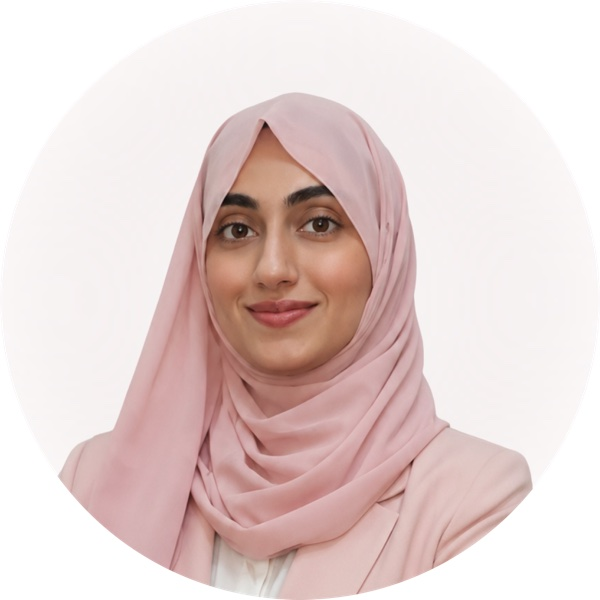
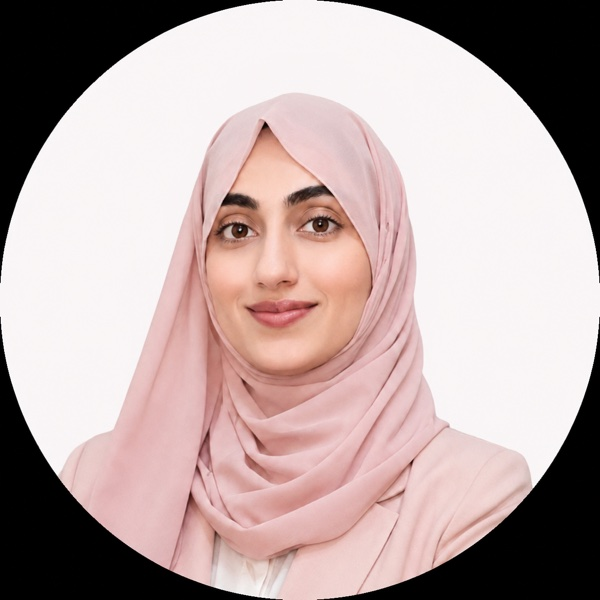
feat: reCAPTCHA v2 on contact form; smaller testimonial cards; UX fixes
- Add Google reCAPTCHA v2 (EmailJS verifies server-side); graceful if unset
- Fix textarea/select font to inherit site font
- Smaller testimonial cards, bottom-aligned author block
- Update Maryam leadership photo

diff --git a/src/components/ContactForm.jsx b/src/components/ContactForm.jsx
@@ -3,6 +3,7 @@ import emailjs from "@emailjs/browser";
 import "./ContactForm.css";
 
 const CAL_LINK = "https://cal.com/muhammad-umar-b87ycu/30min";
+const RECAPTCHA_SITE_KEY = import.meta.env.VITE_RECAPTCHA_SITE_KEY;
 
 const SERVICE_OPTIONS = [
   "Mobile App Development",
@@ -54,10 +55,48 @@ const ContactForm = () => {
   const [formError, setFormError] = useState("");
   const [honeypot, setHoneypot] = useState(""); // spam trap, real users never fill this
   const mountedAt = useRef(0); // time-trap: bots submit almost instantly
+  const recaptchaRef = useRef(null);
+  const widgetIdRef = useRef(null);
 
   useEffect(() => {
     mountedAt.current = Date.now();
   }, []);
+
+  // Load the reCAPTCHA v2 script once (only if a site key is configured).
+  useEffect(() => {
+    if (!RECAPTCHA_SITE_KEY || window.grecaptcha) return;
+    const script = document.createElement("script");
+    script.src = "https://www.google.com/recaptcha/api.js?render=explicit";
+    script.async = true;
+    script.defer = true;
+    document.head.appendChild(script);
+  }, []);
+
+  // Render the widget whenever the email form is visible.
+  useEffect(() => {
+    if (!RECAPTCHA_SITE_KEY || activeTab !== "email" || submitted) return undefined;
+    let cancelled = false;
+    const renderWidget = () => {
+      if (cancelled) return;
+      const g = window.grecaptcha;
+      if (g && g.render && recaptchaRef.current && widgetIdRef.current === null) {
+        try {
+          widgetIdRef.current = g.render(recaptchaRef.current, {
+            sitekey: RECAPTCHA_SITE_KEY,
+          });
+        } catch {
+          /* already rendered — ignore */
+        }
+      } else if (widgetIdRef.current === null) {
+        window.setTimeout(renderWidget, 300);
+      }
+    };
+    renderWidget();
+    return () => {
+      cancelled = true;
+      widgetIdRef.current = null; // let it re-render when the form returns
+    };
+  }, [activeTab, submitted]);
 
   const handleChange = (e) => {
     const { name, value } = e.target;
@@ -97,6 +136,18 @@ const ContactForm = () => {
       return;
     }
 
+    // reCAPTCHA: require a token (EmailJS verifies it server-side).
+    let captchaToken = "";
+    if (RECAPTCHA_SITE_KEY) {
+      captchaToken = window.grecaptcha
+        ? window.grecaptcha.getResponse(widgetIdRef.current ?? undefined)
+        : "";
+      if (!captchaToken) {
+        setFormError('Please complete the "I\'m not a robot" check.');
+        return;
+      }
+    }
+
     setSubmitting(true);
     setFormError("");
 
@@ -104,7 +155,7 @@ const ContactForm = () => {
       .send(
         import.meta.env.VITE_EMAILJS_SERVICE_ID,
         import.meta.env.VITE_EMAILJS_TEMPLATE_ID,
-        formData,
+        { ...formData, "g-recaptcha-response": captchaToken },
         import.meta.env.VITE_EMAILJS_PUBLIC_KEY
       )
       .then(
@@ -113,12 +164,18 @@ const ContactForm = () => {
           setSubmitted(true);
           setFormData(emptyForm);
           setSubmitting(false);
+          if (RECAPTCHA_SITE_KEY && window.grecaptcha) {
+            window.grecaptcha.reset(widgetIdRef.current ?? undefined);
+          }
         },
         () => {
           setSubmitting(false);
           setFormError(
             "Something went wrong sending your message. Please try again, or email us directly."
           );
+          if (RECAPTCHA_SITE_KEY && window.grecaptcha) {
+            window.grecaptcha.reset(widgetIdRef.current ?? undefined);
+          }
         }
       );
   };
@@ -337,6 +394,13 @@ const ContactForm = () => {
                 onChange={(e) => setHoneypot(e.target.value)}
                 aria-hidden="true"
               />
+
+              {/* reCAPTCHA v2 — rendered only when a site key is configured */}
+              {RECAPTCHA_SITE_KEY && (
+                <div className="recaptcha-box">
+                  <div ref={recaptchaRef}></div>
+                </div>
+              )}
 
               <button type="submit" disabled={submitting}>
                 {submitting ? "Sending..." : "Send Message"}

diff --git a/src/components/Testimonials.css b/src/components/Testimonials.css
@@ -65,15 +65,18 @@
 /* ===== Testimonial Card (Wider + Shorter) ===== */
 .testimonial-card {
   background: rgba(255, 255, 255, 0.96);
-  padding: 34px 32px;
-  border-radius: 24px;
+  padding: 26px 24px;
+  border-radius: 20px;
   box-shadow: 0 20px 60px rgba(0, 0, 0, 0.15);
   text-align: center;
   position: relative;
   overflow: hidden;
   transition: transform 0.4s ease, box-shadow 0.4s ease;
+  /* Flex column so the author block can pin to the bottom */
+  display: flex;
+  flex-direction: column;
   /* Keep cards horizontal and consistent in the track */
-  flex: 0 0 440px;
+  flex: 0 0 340px;
 }
 
 /* Hover Animation */
@@ -84,20 +87,21 @@
 
 /* ===== Quote Icon ===== */
 .quote-icon {
-  width: 65px;
-  height: 65px;
-  margin: 0 auto 16px;
+  width: 52px;
+  height: 52px;
+  margin: 0 auto 14px;
   display: flex;
   align-items: center;
   justify-content: center;
   background: linear-gradient(135deg, #3461f0, #0aa5dd);
-  border-radius: 16px;
+  border-radius: 14px;
   transition: 0.3s ease;
+  flex-shrink: 0;
 }
 
 .quote-icon svg {
-  width: 28px;
-  height: 28px;
+  width: 24px;
+  height: 24px;
   color: white;
 }
 
@@ -107,17 +111,17 @@
 
 /* ===== Title Text ===== */
 .testimonial-text {
-  font-size: 24px;
+  font-size: 19px;
   font-weight: 700;
-  margin-bottom: 10px;
+  margin-bottom: 8px;
   color: #111;
 }
 
 /* ===== Description ===== */
 .testimonial-description {
-  font-size: 16px;
-  line-height: 1.7;
-  margin-bottom: 18px;
+  font-size: 14px;
+  line-height: 1.6;
+  margin-bottom: 16px;
   color: #555;
 }
 
@@ -125,13 +129,15 @@
 .testimonial-rating {
   display: flex;
   justify-content: center;
-  gap: 6px;
-  margin-bottom: 18px;
+  gap: 5px;
+  margin-bottom: 16px;
+  /* Push the rating + author block to the bottom so cards align */
+  margin-top: auto;
 }
 
 .testimonial-rating svg {
-  width: 20px;
-  height: 20px;
+  width: 18px;
+  height: 18px;
   color: #ffc107;
   transition: 0.3s ease;
 }
@@ -150,26 +156,26 @@
 
 /* Avatar */
 .author-avatar span {
-  width: 55px;
-  height: 55px;
+  width: 46px;
+  height: 46px;
   background: linear-gradient(135deg, #3461f0, #0aa5dd);
   border-radius: 50%;
   display: flex;
   align-items: center;
   justify-content: center;
-  font-size: 18px;
+  font-size: 15px;
   font-weight: 700;
   color: white;
 }
 
 /* Author Info */
 .author-info h4 {
-  font-size: 18px;
-  margin-bottom: 4px;
+  font-size: 15px;
+  margin-bottom: 3px;
 }
 
 .author-info span {
-  font-size: 13px;
+  font-size: 12px;
   color: #2f86d9;
   font-weight: 500;
 }
@@ -182,7 +188,7 @@
   }
 
   .testimonial-card {
-    flex-basis: 540px;
+    flex-basis: 340px;
   }
 }
 
@@ -193,16 +199,16 @@
   }
 
   .testimonial-card {
-    padding: 28px 22px;
-    flex-basis: 320px;
+    padding: 24px 20px;
+    flex-basis: 300px;
   }
 
   .testimonial-text {
-    font-size: 22px;
+    font-size: 18px;
   }
 
   .testimonial-description {
-    font-size: 15px;
+    font-size: 13.5px;
   }
 }
 

diff --git a/src/components/ContactForm.css b/src/components/ContactForm.css
@@ -185,6 +185,7 @@
   border: 2px solid #1679db;
   border-radius: 10px;
   font-size: 1rem;
+  font-family: inherit;
   outline: none;
   transition: 0.3s ease;
 }
@@ -205,6 +206,7 @@
   border: 2px solid #1679db;
   border-radius: 10px;
   font-size: 1rem;
+  font-family: inherit;
   outline: none;
   background: #fff;
   color: #222;
@@ -295,6 +297,12 @@
   height: 1px;
   opacity: 0;
   pointer-events: none;
+}
+
+/* reCAPTCHA */
+.recaptcha-box {
+  display: flex;
+  justify-content: center;
 }
 
 /* Reassurance note */
